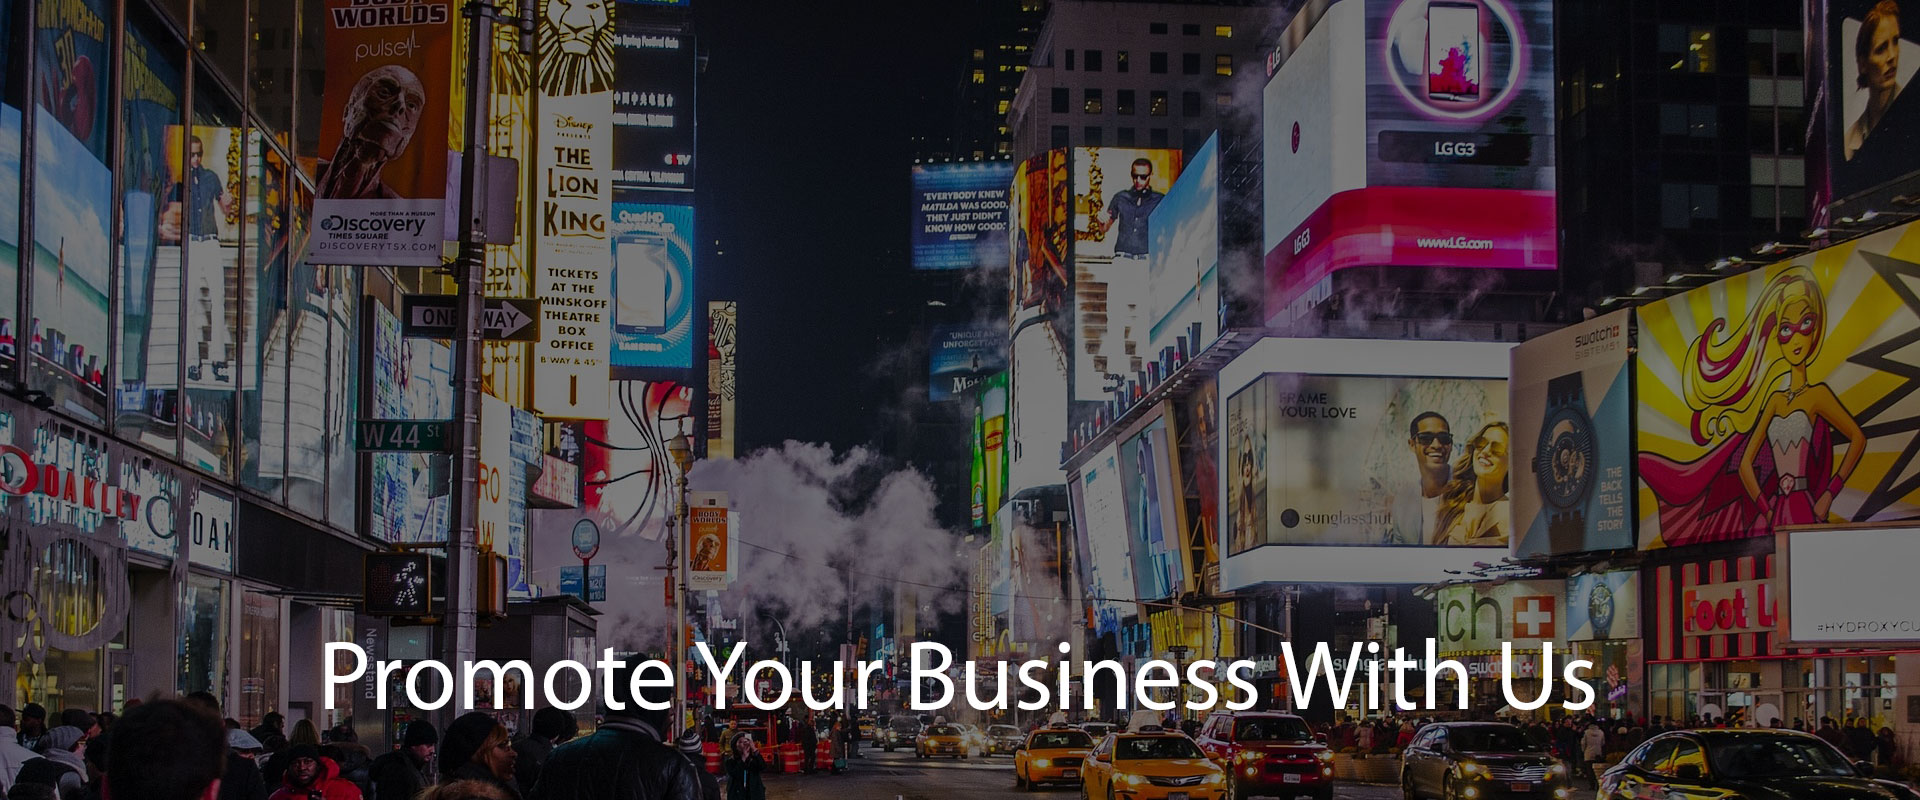
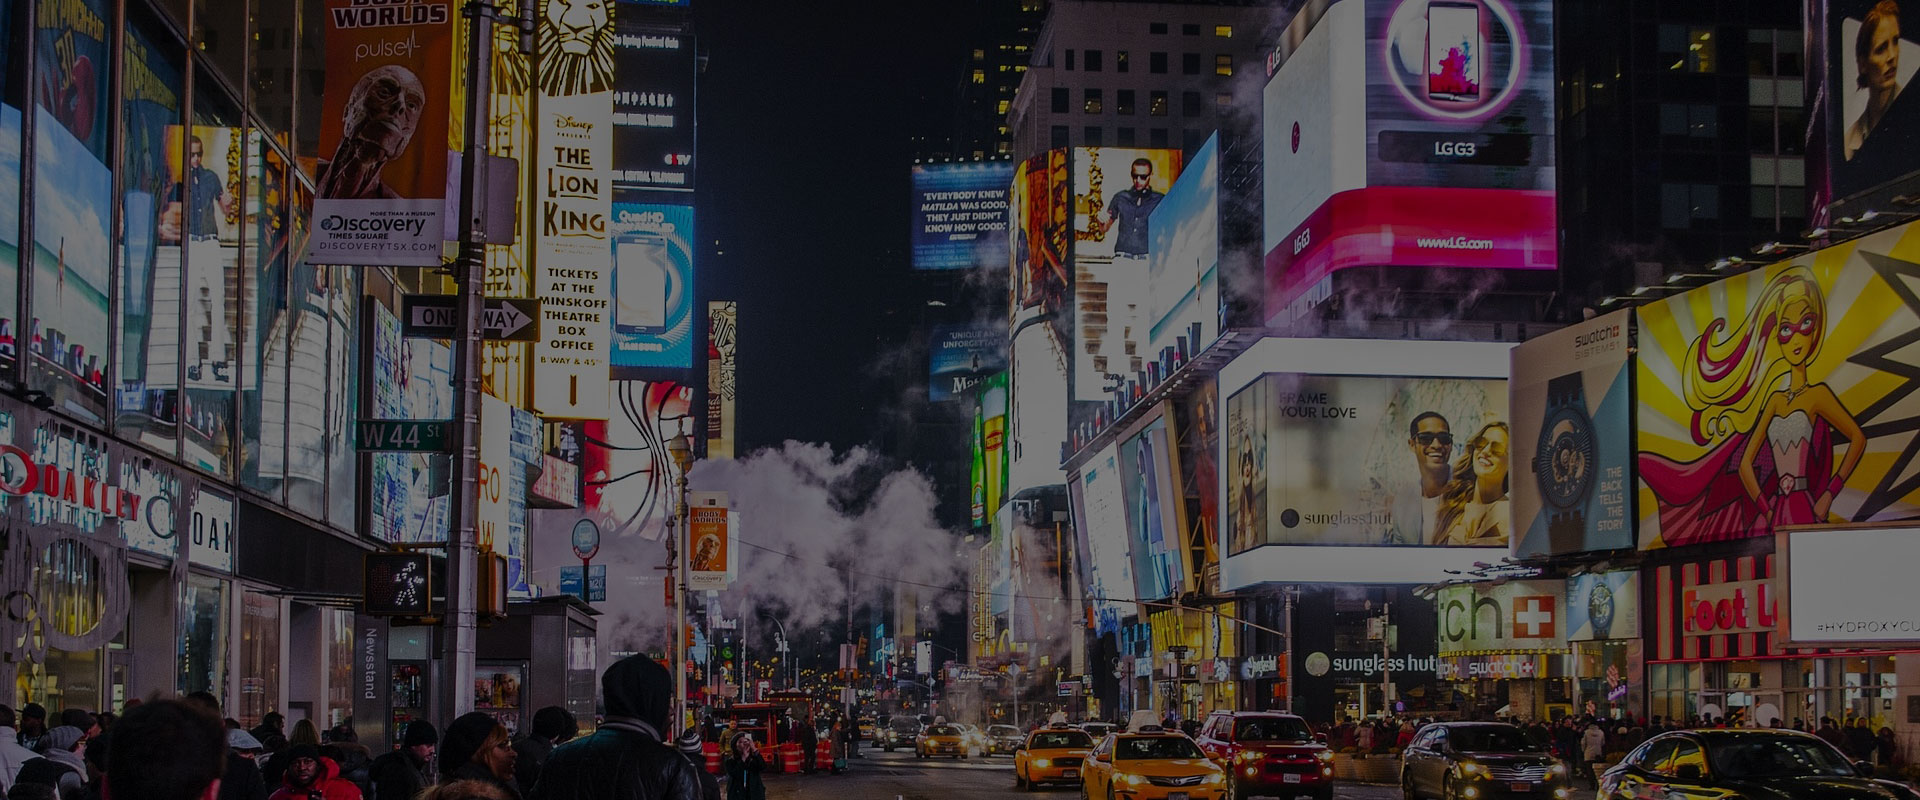
advertise
advertise

Changed region(s): [[0.1562, 0.7812, 0.8438, 0.9062]]

diff --git a/application/front/views/advertise_with_us/index.php b/application/front/views/advertise_with_us/index.php
@@ -218,7 +218,8 @@ header('Cache-Control: public, max-age=30');
         <div class="middle-section">
 
             <div class="add-banner">
-                <img src="<?php echo base_url('assets/n-images/add-with-us.jpg') ?>">
+                <img src="<?php echo base_url('assets/n-images/add-with-us.jpg') ?>" alt="Advertise With Us">
+                <h1>Promote Your Business With Aileensoul</h1>
             </div>
             <div class="container">
                 <div class="add-form">
@@ -253,7 +254,7 @@ header('Cache-Control: public, max-age=30');
                         <div class="form-group">
                             <div class="row">
                                 <div class="col-md-12 text-right">
-                                    <input type="submit" id="submit" name="submit" value="Send">
+                                    <input type="submit" class="btn1" id="submit" name="submit" value="Send">
                                 </div>
 
                             </div>
